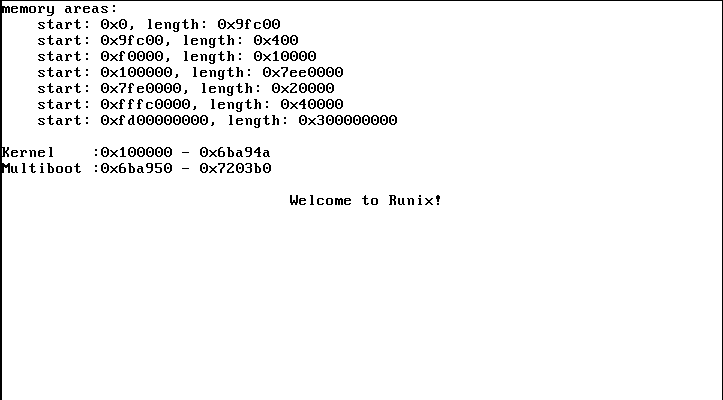
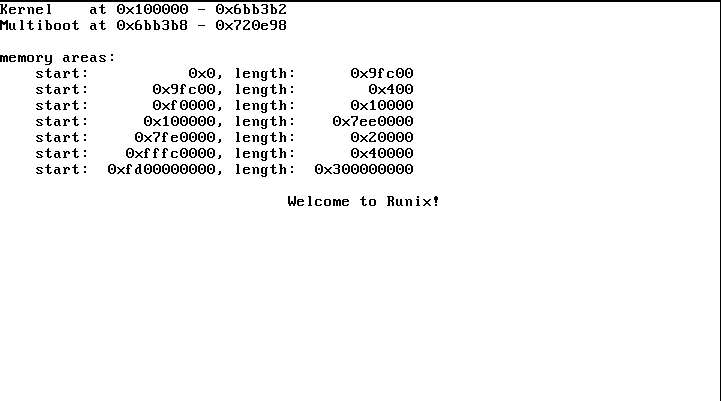
Change printing

Changed region(s): [[0.0, 0.0, 0.5798, 0.45], [0.3967, 0.48, 0.6103, 0.54]]

diff --git a/src/lib.rs b/src/lib.rs
@@ -26,11 +26,6 @@ pub extern fn runix(multiboot_information_pointer: *const BootInformationHeader)
 
     let memory_map_tag = boot_info.memory_map_tag()
         .expect("Memory map tag required");
-    
-    println!("memory areas:");
-    for area in memory_map_tag.memory_areas() {
-        println!("    start: 0x{:x}, length: 0x{:x}", area.start_address(), area.size());
-    }
 
     let elf_sections_tag = boot_info.elf_sections()
     .expect("Elf-sections tag required");
@@ -47,9 +42,14 @@ pub extern fn runix(multiboot_information_pointer: *const BootInformationHeader)
     let multiboot_start = multiboot_information_pointer as u32;
     let multiboot_end = multiboot_start + (boot_info.total_size() as u32);
 
+    println!("Kernel    at {:#7x} - {:#7x}", kernel_start, kernel_end);
+    println!("Multiboot at {:#7x} - {:#7x}", multiboot_start, multiboot_end);
+    
     println!();
-    println!("Kernel    :0x{:x} - 0x{:x}", kernel_start, kernel_end);
-    println!("Multiboot :0x{:x} - 0x{:x}", multiboot_start, multiboot_end);
+    println!("Memory areas:");
+    for area in memory_map_tag.memory_areas() {
+        println!("    start: {:#13x}, length:{:#13x}", area.start_address(), area.size());
+    }
 
     loop{}
 }
